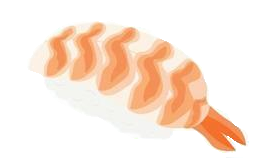
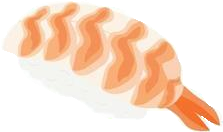
v0.11

diff --git a/index.html b/index.html
@@ -10,7 +10,7 @@
 <div id="game-container">
   <canvas id="game-canvas"></canvas>
 </div>
-<script src="node_modules/howler/dist/howler.min.js"></script>
+<script src="https://cdn.jsdelivr.net/npm/howler@2.2.4/dist/howler.min.js"></script>
 <script src="main.js"></script>
 </body>
 </html>
